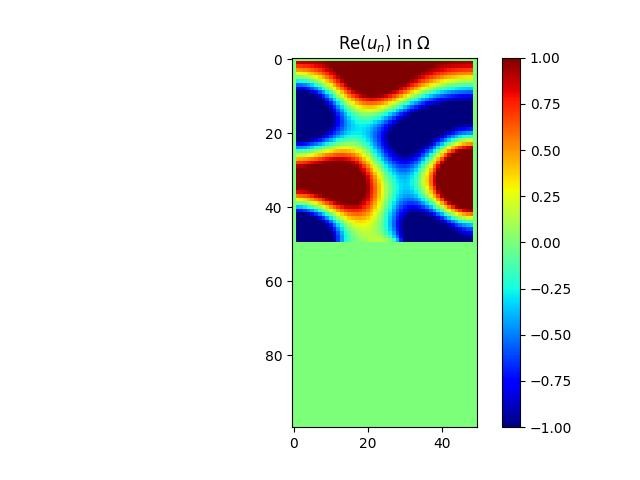
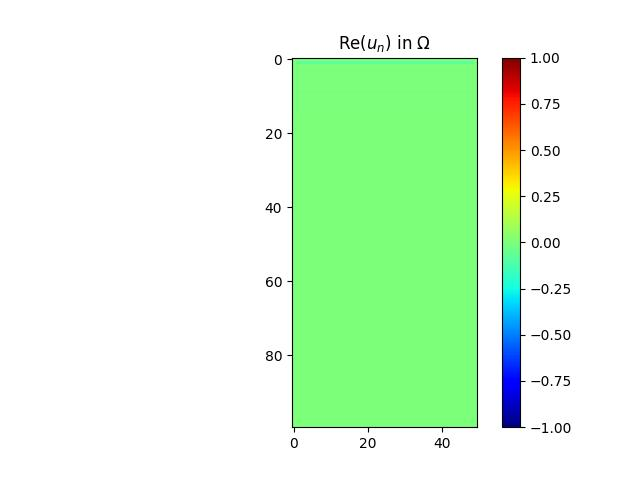
Energie/freq pour différents systèmes

Changed region(s): [[0.4375, 0.125, 0.75, 0.5312]]

diff --git a/energy_freq.py b/energy_freq.py
@@ -4,7 +4,7 @@ import scipy.linalg
 import pandas as pd
 import random as rd 
 
-import demo_control_polycopie2024
+from demo_control_polycopie2024 import *
 import sons_et_spectres
 import compute_alpha
 import preprocessing
@@ -14,14 +14,40 @@ import _env
 
 from math import pi
 
-file = pd.read_csv("ei-pollution-interieure-groupe-3\sons_et_spectres\spectre_bureau_2048.txt", delimiter="\t")
-file["Fréquence (Hz)"] = file["Fréquence (Hz)"].str.replace(",", ".", regex=False)
-file["Fréquence (Hz)"] = pd.to_numeric(file["Fréquence (Hz)"], errors='coerce')
-filtered_freq = file[(file["Fréquence (Hz)"] >= 100) & (file["Fréquence (Hz)"] <= 1000)]["Fréquence (Hz)"]
-
-
-print(filtered_freq)
-
+materials = {
+        "Wood": {
+            "phi": 0.5,
+            "gamma_p": 7.0 / 5.0,  # Keeping this constant for all materials
+            "sigma": 12500.0,
+            "rho_0": 600.0,
+            "alpha_h": 1.35,
+            "c_0": 360.0,
+        },
+        "Polyester": {
+            "phi": 0.9,
+            "gamma_p": 7.0 / 5.0,
+            "sigma": 20000.0,
+            "rho_0": 40.0,
+            "alpha_h": 1.2,
+            "c_0": 340.0,
+        },
+        "Melamine": {
+            "phi": 0.95,
+            "gamma_p": 7.0 / 5.0,
+            "sigma": 13000.0,
+            "rho_0": 10.0,
+            "alpha_h": 1.3,
+            "c_0": 340.0,
+        },
+        "Wool": {
+            "phi": 0.9,
+            "gamma_p": 7.0 / 5.0,
+            "sigma": 22500.0,
+            "rho_0": 100.0,
+            "alpha_h": 1.4,
+            "c_0": 340.0,
+        },
+    }
 
 # ---------------------------------------------
 
@@ -32,17 +58,28 @@ level = 0 # level of the fractal
 spacestep = 1.0 / N  # mesh size
 sound_speed = 340.0
 
+
+
 domain_omega, x, y, _, _ = preprocessing._set_geometry_of_domain(M, N, level)
 beta_pde, alpha_pde, alpha_dir, beta_neu, alpha_rob, beta_rob = preprocessing._set_coefficients_of_pde(M, N)
-print(beta_rob)
 f, f_dir, f_neu, f_rob = preprocessing._set_rhs_of_pde(M, N)
-f_dir[:, :] = 0.0
-f_dir[0, 0:N] = 1.0
+f_dir[:, :] = 0.0 # !!!!!
+f_dir[0, 0:N] = 1.0 # !!!!!!
 chi = preprocessing._set_chi(M, N, x, y)
+# chi[:,:] = 1 , enlever # pour fully absorbant
 chi = preprocessing.set2zero(chi, domain_omega)
+print(chi[50]) 
 
 
 def compute_objective_function(wavenumber):
+
+    omega =  sound_speed * wavenumber
+
+    computation = compute_alpha.compute_alpha(omega, material_properties) # mettre # ici pour fully absorbant
+    # Alpha = - wavenumber * 1j 
+    # enlevez le # ici pour fully absorbant
+    Alpha = computation[0] # mettre # ici pour fully absorbant
+    alpha_rob = Alpha * chi
 
     u = processing.solve_helmholtz(domain_omega, spacestep, wavenumber, f, f_dir, f_neu, f_rob,
                         beta_pde, alpha_pde, alpha_dir, beta_neu, beta_rob, alpha_rob)
@@ -58,18 +95,20 @@ def compute_objective_function(wavenumber):
     return energy
 
 
+material_properties = materials["Melamine"]
 
 def fractal_shape(wavenumber) :
 
     global alpha_rob
-    alpha_rob[:, :] = - wavenumber * 1j
+    global chi
+    
     omega =  sound_speed * wavenumber
-    # -- define absorbing material
-    Alpha = compute_alpha(omega) # En attendant la fonction compute_alpha
-    # -- this is the function you have written during your project
-    #import compute_alpha
-    #Alpha = compute_alpha.compute_alpha(...)
-    alpha_rob = Alpha * chi
+
+    computation = compute_alpha.compute_alpha(omega, material_properties) # mettre # ici pour fully absorbant
+    # Alpha = - wavenumber * 1j 
+    # enlevez le # ici pour fully absorbant
+    Alpha = computation[0] # mettre # ici pour fully absorbant 
+    alpha_rob = Alpha * chi  
 
     # -- set parameters for optimization
     S = 0  # surface of the fractal
@@ -82,56 +121,82 @@ def fractal_shape(wavenumber) :
     mu = 5  # initial gradient step
     mu1 = 10**(-5)  # parameter of the volume functional
 
-    # ----------------------------------------------------------------------
-    # -- Do not modify this cell, these are the values that you will be assessed against.
-    # ----------------------------------------------------------------------
-    # -- compute finite difference solution
-
     u = processing.solve_helmholtz(domain_omega, spacestep, wavenumber, f, f_dir, f_neu, f_rob,
                         beta_pde, alpha_pde, alpha_dir, beta_neu, beta_rob, alpha_rob)
     
     chi0 = chi.copy()
     u0 = u.copy()
 
-    # ----------------------------------------------------------------------
-    # -- Fell free to modify the function call in this cell.
-    # ----------------------------------------------------------------------
-    # -- compute optimization
-    energy = compute_objective_function(wavenumber)
-    # chi, energy, u, grad = your_optimization_procedure(...)
+    #chi, energy, u, grad = your_optimization_procedure(domain_omega, spacestep, omega, f, f_dir, f_neu, f_rob,
+    #                       beta_pde, alpha_pde, alpha_dir, beta_neu, beta_rob, alpha_rob,
+    #                      Alpha, mu, chi, V_obj)
     #chi, energy, u, grad = solutions.optimization_procedure(domain_omega, spacestep, wavenumber, f, f_dir, f_neu, f_rob,
     #                    beta_pde, alpha_pde, alpha_dir, beta_neu, beta_rob, alpha_rob,
     #                    Alpha, mu, chi, V_obj, mu1, V_0)
     # --- en of optimization
 
-    chin = chi.copy()
-    un = u.copy()
+    # chin = chi.copy()
+    # un = u.copy()
 
     # -- plot chi, u, and energy
 
+    postprocessing.plot_domain(domain_omega)
     postprocessing._plot_uncontroled_solution(u0, chi0)
+    # postprocessing._plot_controled_solution(un, chin)
+    # err = un - u0
+    # postprocessing._plot_error(err)
 
     
 
-energy_values = []
 
-# Loop over each frequency and calculate the energy
-for freq in filtered_freq:
-    wavenumber = (2 * pi * freq) / sound_speed
-    # Calculate and store the energy for each frequency
-    energy = compute_objective_function(wavenumber)
-    energy_values.append(energy)  # Store energy for plotting later
+start_freq = 100  # Starting frequency (Hz)
+end_freq = 1501   # Ending frequency (Hz)
+num_points = 300  # Number of points for a smooth curve
 
-# Plot frequencies vs. energies after the loop
+filtered_freq = np.linspace(start_freq, end_freq, num_points)
+
+# Compute energy values for level 0
+
+level = 0
+domain_omega, x, y, _, _ = preprocessing._set_geometry_of_domain(M, N, level)
+beta_pde, alpha_pde, alpha_dir, beta_neu, alpha_rob, beta_rob = preprocessing._set_coefficients_of_pde(M, N)
+f, f_dir, f_neu, f_rob = preprocessing._set_rhs_of_pde(M, N)
+f_dir[:, :] = 0.0 # !!!!!
+f_dir[0, 0:N] = 1.0 # !!!!!!
+energy_values_level_0 = [np.log10(compute_objective_function((2 * pi * freq) / sound_speed)) for freq in filtered_freq]
+
+# ICI, enlevez les # en bas pour fully absorbant
+
+# level = 1
+# domain_omega, x, y, _, _ = preprocessing._set_geometry_of_domain(M, N, level)
+# beta_pde, alpha_pde, alpha_dir, beta_neu, alpha_rob, beta_rob = preprocessing._set_coefficients_of_pde(M, N)
+# f, f_dir, f_neu, f_rob = preprocessing._set_rhs_of_pde(M, N)
+# f_dir[:, :] = 0.0 # !!!!!
+# f_dir[0, 0:N] = 1.0 # !!!!!!
+# energy_values_level_1 = [np.log10(compute_objective_function((2 * pi * freq) / sound_speed)) for freq in filtered_freq]
+
+# level = 2
+# domain_omega, x, y, _, _ = preprocessing._set_geometry_of_domain(M, N, level)
+# beta_pde, alpha_pde, alpha_dir, beta_neu, alpha_rob, beta_rob = preprocessing._set_coefficients_of_pde(M, N)
+# f, f_dir, f_neu, f_rob = preprocessing._set_rhs_of_pde(M, N)
+# f_dir[:, :] = 0.0 # !!!!!
+# f_dir[0, 0:N] = 1.0 # !!!!!!
+# energy_values_level_2 = [np.log10(compute_objective_function((2 * pi * freq) / sound_speed)) for freq in filtered_freq]
+
+
+
+# Plot frequencies vs. energies for both levels
 plt.figure(figsize=(12, 6))
-plt.plot(filtered_freq, energy_values, marker='o')
+plt.plot(filtered_freq, energy_values_level_0, label='Level 0', linewidth=2, marker='o')
+# plt.plot(filtered_freq, energy_values_level_1, label='Level 1', linewidth=2, marker='o')
+# plt.plot(filtered_freq, energy_values_level_2, label='Level 2', linewidth=2, marker='o')
 plt.xlabel("Frequency (Hz)")
 plt.ylabel("Energy")
-plt.title("Energy vs Frequency")
+plt.title("Energy in function of Frequency for porous on reflective")
+plt.legend()
+plt.grid(True)
 plt.show()
 
-freq = rd.choice(filtered_freq)
-print(freq)
-wavenumber = (2 * pi * freq)/(sound_speed)
-fractal_shape(wavenumber)
+# Enlevez le # ici si vous voulez afficher les cartes thermiques du u0 et chi0, mettre un wavenumber qui maximise l'énergie par exemple à la place de " ... "
 
+# fractal_shape(...) 

diff --git a/demo_control_polycopie2024.py b/demo_control_polycopie2024.py
@@ -100,7 +100,7 @@ if __name__ == '__main__':
     # -- Do not modify this cell, these are the values that you will be assessed against.
     # ----------------------------------------------------------------------
     # --- set coefficients of the partial differential equation
-    beta_pde, alpha_pde, alpha_dir, beta_neu, alpha_rob, beta_rob = preprocessing._set_coefficients_of_pde(M, N)
+    beta_pde, alpha_pde, alpha_dir, beta_neu, alpha_rob, beta_rob = preprocessing._set_coefficients_of_pde(M, N, wavenumber)
 
     # -- set right hand sides of the partial differential equation
     f, f_dir, f_neu, f_rob = preprocessing._set_rhs_of_pde(M, N)
